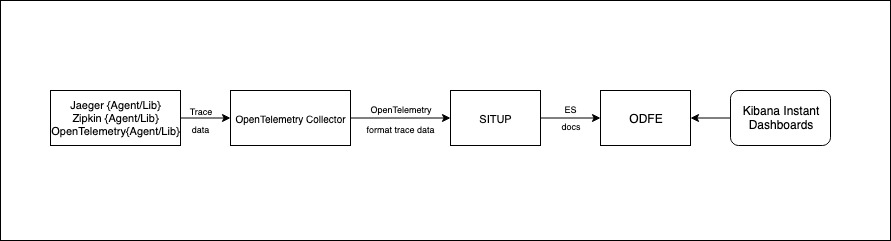
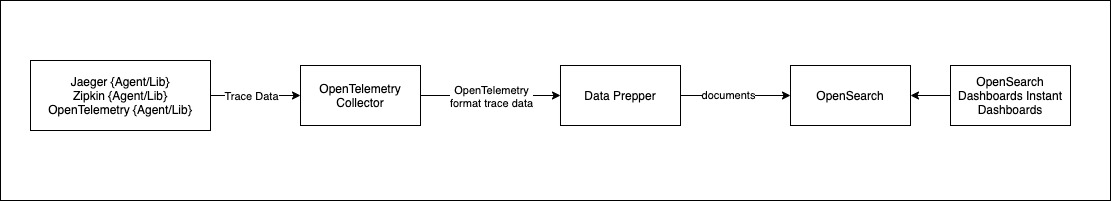
Updated documentation to use OpenSearch Dashboards. #638

diff --git a/data-prepper-plugins/otel-trace-raw-prepper/src/main/java/com/amazon/dataprepper/plugins/prepper/oteltrace/model/OTelProtoHelper.java b/data-prepper-plugins/otel-trace-raw-prepper/src/main/java/com/amazon/dataprepper/plugins/prepper/oteltrace/model/OTelProtoHelper.java
@@ -43,7 +43,7 @@ public final class OTelProtoHelper {
     private static final String AT = "@";
     public static final Function<String, String> REPLACE_DOT_WITH_AT = i -> i.replace(DOT, AT);
     /**
-     * Span and Resource attributes are essential for kibana so they should not be nested. SO we will prefix them with "span.attributes"
+     * Span and Resource attributes are essential for OpenSearch so they should not be nested. SO we will prefix them with "span.attributes"
      * and "resource.attributes".
      *
      */
@@ -105,13 +105,13 @@ public final class OTelProtoHelper {
 
     /**
      * Trace group represent root span i.e the span which triggers the trace event with the microservice architecture. This field is not part of the OpenTelemetry Spec.
-     * This field is something specific to Trace Analytics feature that Kibana will be supporting. This field is derived from the opentelemetry spec and set as below,
+     * This field is something specific to Trace Analytics feature that OpenSearch Dashboards will be supporting. This field is derived from the opentelemetry spec and set as below,
      * <p>
      * if (this.parentSpanId.isEmpty()) {
      * traceGroup = this.name;
      * }
      * <p>
-     * Note: The reason this method is part of the helper class is because the trace group definition will be expanded in the future when we support Links in Kibana Trace Analytics.
+     * Note: The reason this method is part of the helper class is because the trace group definition will be expanded in the future when we support Links in OpenSearch Dashboards Trace Analytics.
      */
     public static TraceGroup getTraceGroup(final Span span) {
         final TraceGroup.TraceGroupBuilder traceGroupBuilder = new TraceGroup.TraceGroupBuilder();

diff --git a/data-prepper-plugins/otel-trace-raw-prepper/src/main/java/com/amazon/dataprepper/plugins/prepper/oteltrace/model/RawSpan.java b/data-prepper-plugins/otel-trace-raw-prepper/src/main/java/com/amazon/dataprepper/plugins/prepper/oteltrace/model/RawSpan.java
@@ -57,7 +57,7 @@ public final class RawSpan {
      */
     private final String endTime;
     /**
-     * Duration is calculated from startTime and endTime in nanos. This is a  friendly field to make trace analytics kibana UI.
+     * Duration is calculated from startTime and endTime in nanos. This is a  friendly field to make trace analytics OpenSearch Dashboards UI.
      */
     private final long durationInNanos;
     /**
@@ -66,7 +66,7 @@ public final class RawSpan {
     private final String serviceName;
     /**
      * Collection of key-value pairs related to the span.attributes, resource.attributes, span.status and instrumentationLibrary
-     * This is done to avoid nested objects and support kibana query and aggregations.
+     * This is done to avoid nested objects and support OpenSearch Dashboards query and aggregations.
      */
     private final Map<String, Object> attributes;
     /**
@@ -97,7 +97,7 @@ public final class RawSpan {
 
     /**
      * Trace group represent root span i.e the span which triggers the trace event with the microservice architecture. This field is not part of the OpenTelemetry Spec.
-     * This field is something specific to Trace Analytics feature that Kibana will be supporting. This field is derived from the opentelemetry spec and set as below,
+     * This field is something specific to Trace Analytics feature that OpenSearch Dashboards will be supporting. This field is derived from the opentelemetry spec and set as below,
      * <p>
      * if (this.parentSpanId.isEmpty()) {
      * traceGroup = this.name;

diff --git a/data-prepper-plugins/otel-trace-raw-prepper/src/test/java/com/amazon/dataprepper/plugins/prepper/oteltrace/model/OTelProtoHelperTest.java b/data-prepper-plugins/otel-trace-raw-prepper/src/test/java/com/amazon/dataprepper/plugins/prepper/oteltrace/model/OTelProtoHelperTest.java
@@ -30,6 +30,7 @@ import java.util.Arrays;
 import java.util.Collections;
 import java.util.List;
 import java.util.Map;
+import java.util.UUID;
 
 import static org.assertj.core.api.Assertions.assertThat;
 
@@ -114,7 +115,7 @@ public class OTelProtoHelperTest {
                 .setIntValue(20).build()).build();
         final KeyValue childAttr2 = KeyValue.newBuilder().setKey("ec2.instance.az").setValue(AnyValue.newBuilder()
                 .setStringValue("us-east-1").build()).build();
-        final AnyValue anyValue1 = AnyValue.newBuilder().setStringValue("Kibana").build();
+        final AnyValue anyValue1 = AnyValue.newBuilder().setStringValue(UUID.randomUUID().toString()).build();
         final AnyValue anyValue2 = AnyValue.newBuilder().setDoubleValue(2000.123).build();
         final AnyValue anyValue3 = AnyValue.newBuilder().setKvlistValue(KeyValueList.newBuilder().addAllValues(Arrays.asList(childAttr1, childAttr2))).build();
         final ArrayValue arrayValue = ArrayValue.newBuilder().addAllValues(Arrays.asList(anyValue1, anyValue2, anyValue3)).build();

diff --git a/data-prepper-plugins/otel-trace-raw-prepper/src/main/java/com/amazon/dataprepper/plugins/prepper/oteltrace/OTelTraceRawPrepper.java b/data-prepper-plugins/otel-trace-raw-prepper/src/main/java/com/amazon/dataprepper/plugins/prepper/oteltrace/OTelTraceRawPrepper.java
@@ -71,7 +71,6 @@ public class OTelTraceRawPrepper extends AbstractPrepper<Record<ExportTraceServi
 
     private volatile boolean isShuttingDown = false;
 
-    //TODO: https://github.com/opendistro-for-elasticsearch/simple-ingest-transformation-utility-pipeline/issues/66
     public OTelTraceRawPrepper(final PluginSetting pluginSetting) {
         super(pluginSetting);
         traceFlushInterval = SEC_TO_MILLIS * pluginSetting.getLongOrDefault(

diff --git a/docs/dev/trace-analytics-rfc.md b/docs/dev/trace-analytics-rfc.md
@@ -10,7 +10,7 @@ The Trace Analytics feature will embrace the Open Telemetry standard and provide
 Adoption to the OpenTelemetry ecosystem will benefit users of existing tracing standards like Zipkin and OpenTracing to use the Trace Analytics feature.
 To support the trace analytics feature we will build a new service called Data Prepper, which receives trace data from the OpenTelemetry collector, process them to OpenSearch friendly docs, and stores them in users' OpenSearch cluster. The trace analytics will also provide an OpenSearch Dashboards plugin that will provide user-friendly dashboards on the stored trace data. 
 
-![Kibana Notebooks Architecture](images/HighLevelDesign.jpg)
+![Architecture](images/HighLevelDesign.jpg)
 
 
 ## 3. Data Prepper
@@ -76,11 +76,11 @@ For the trace analytics feature, the sink will have specific configurations whic
 
 These two indices mentioned above will be used by the OpenSearch Dashboards plugin to provide the following instant dashboards,
 
-![Kibana Notebooks Architecture](images/DashboardView.png)
+![Dashboard View](images/DashboardView.png)
 
-![Kibana Notebooks Architecture](images/TraceView.png)
+![Trace View](images/TraceView.png)
 
-![Kibana Notebooks Architecture](images/ServiceView.png)
+![Service View](images/ServiceView.png)
 
 
 NOTE: The above OpenSearch Dashboards dashboards are mockup UIs, they are subject to changes.
